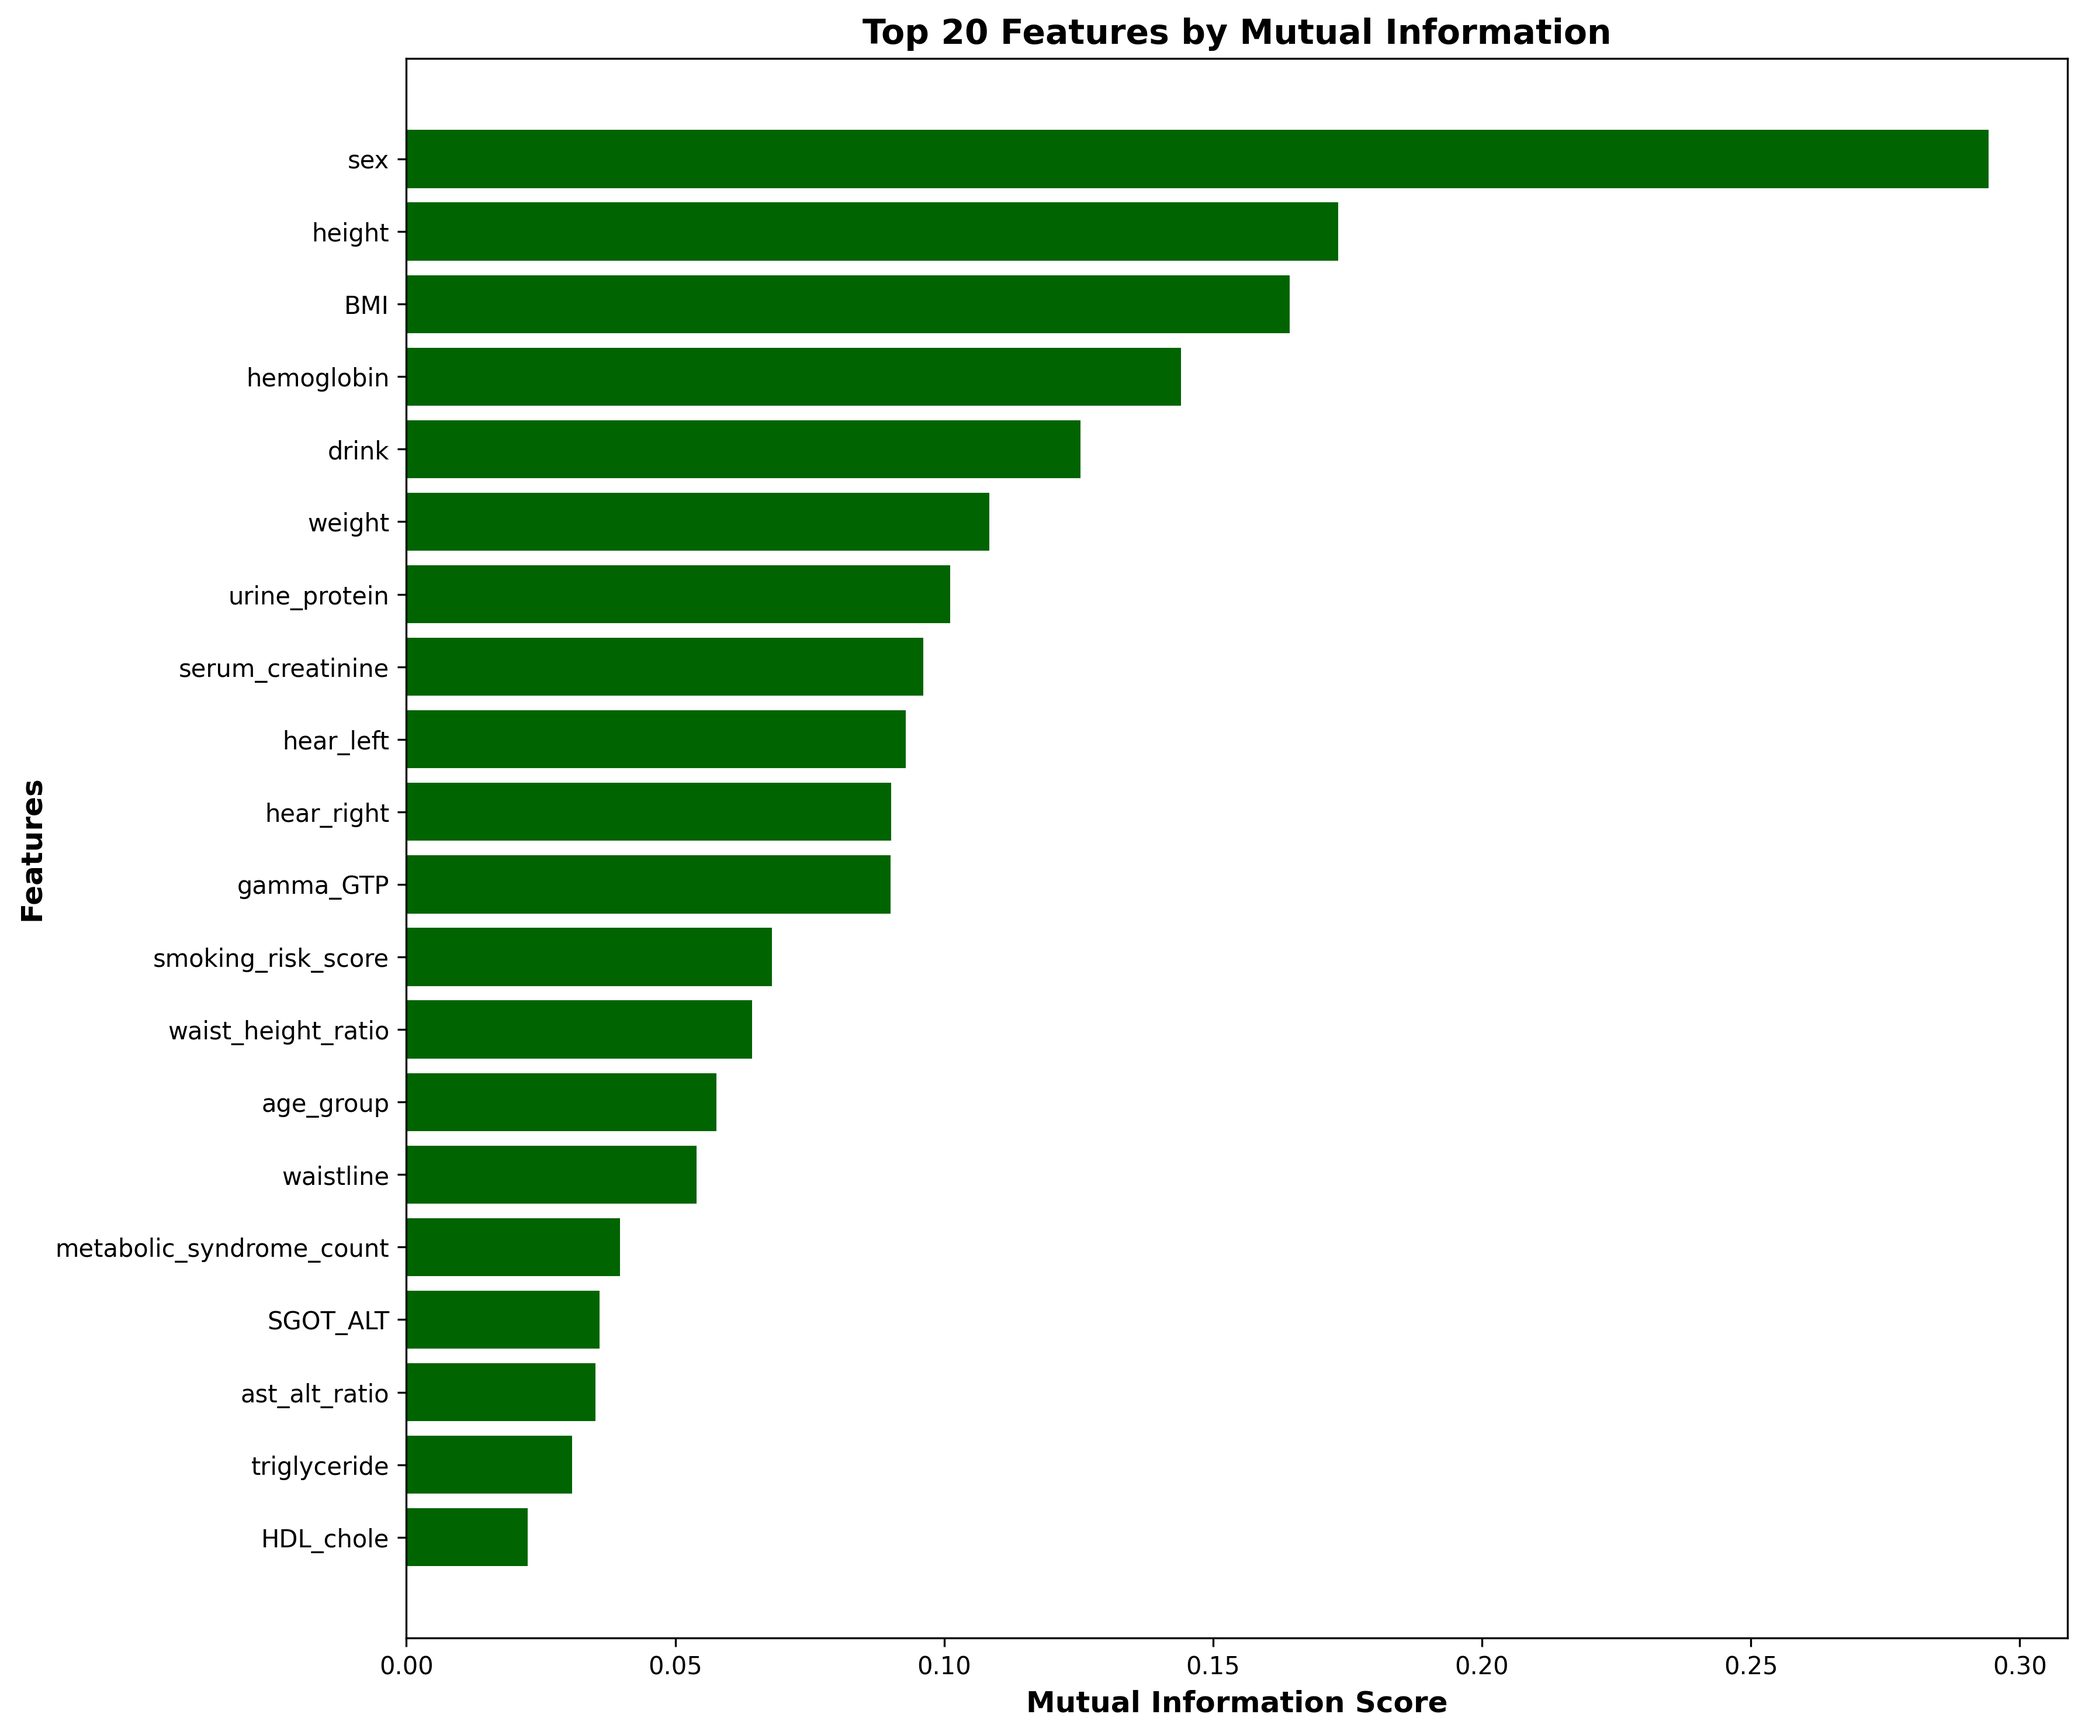
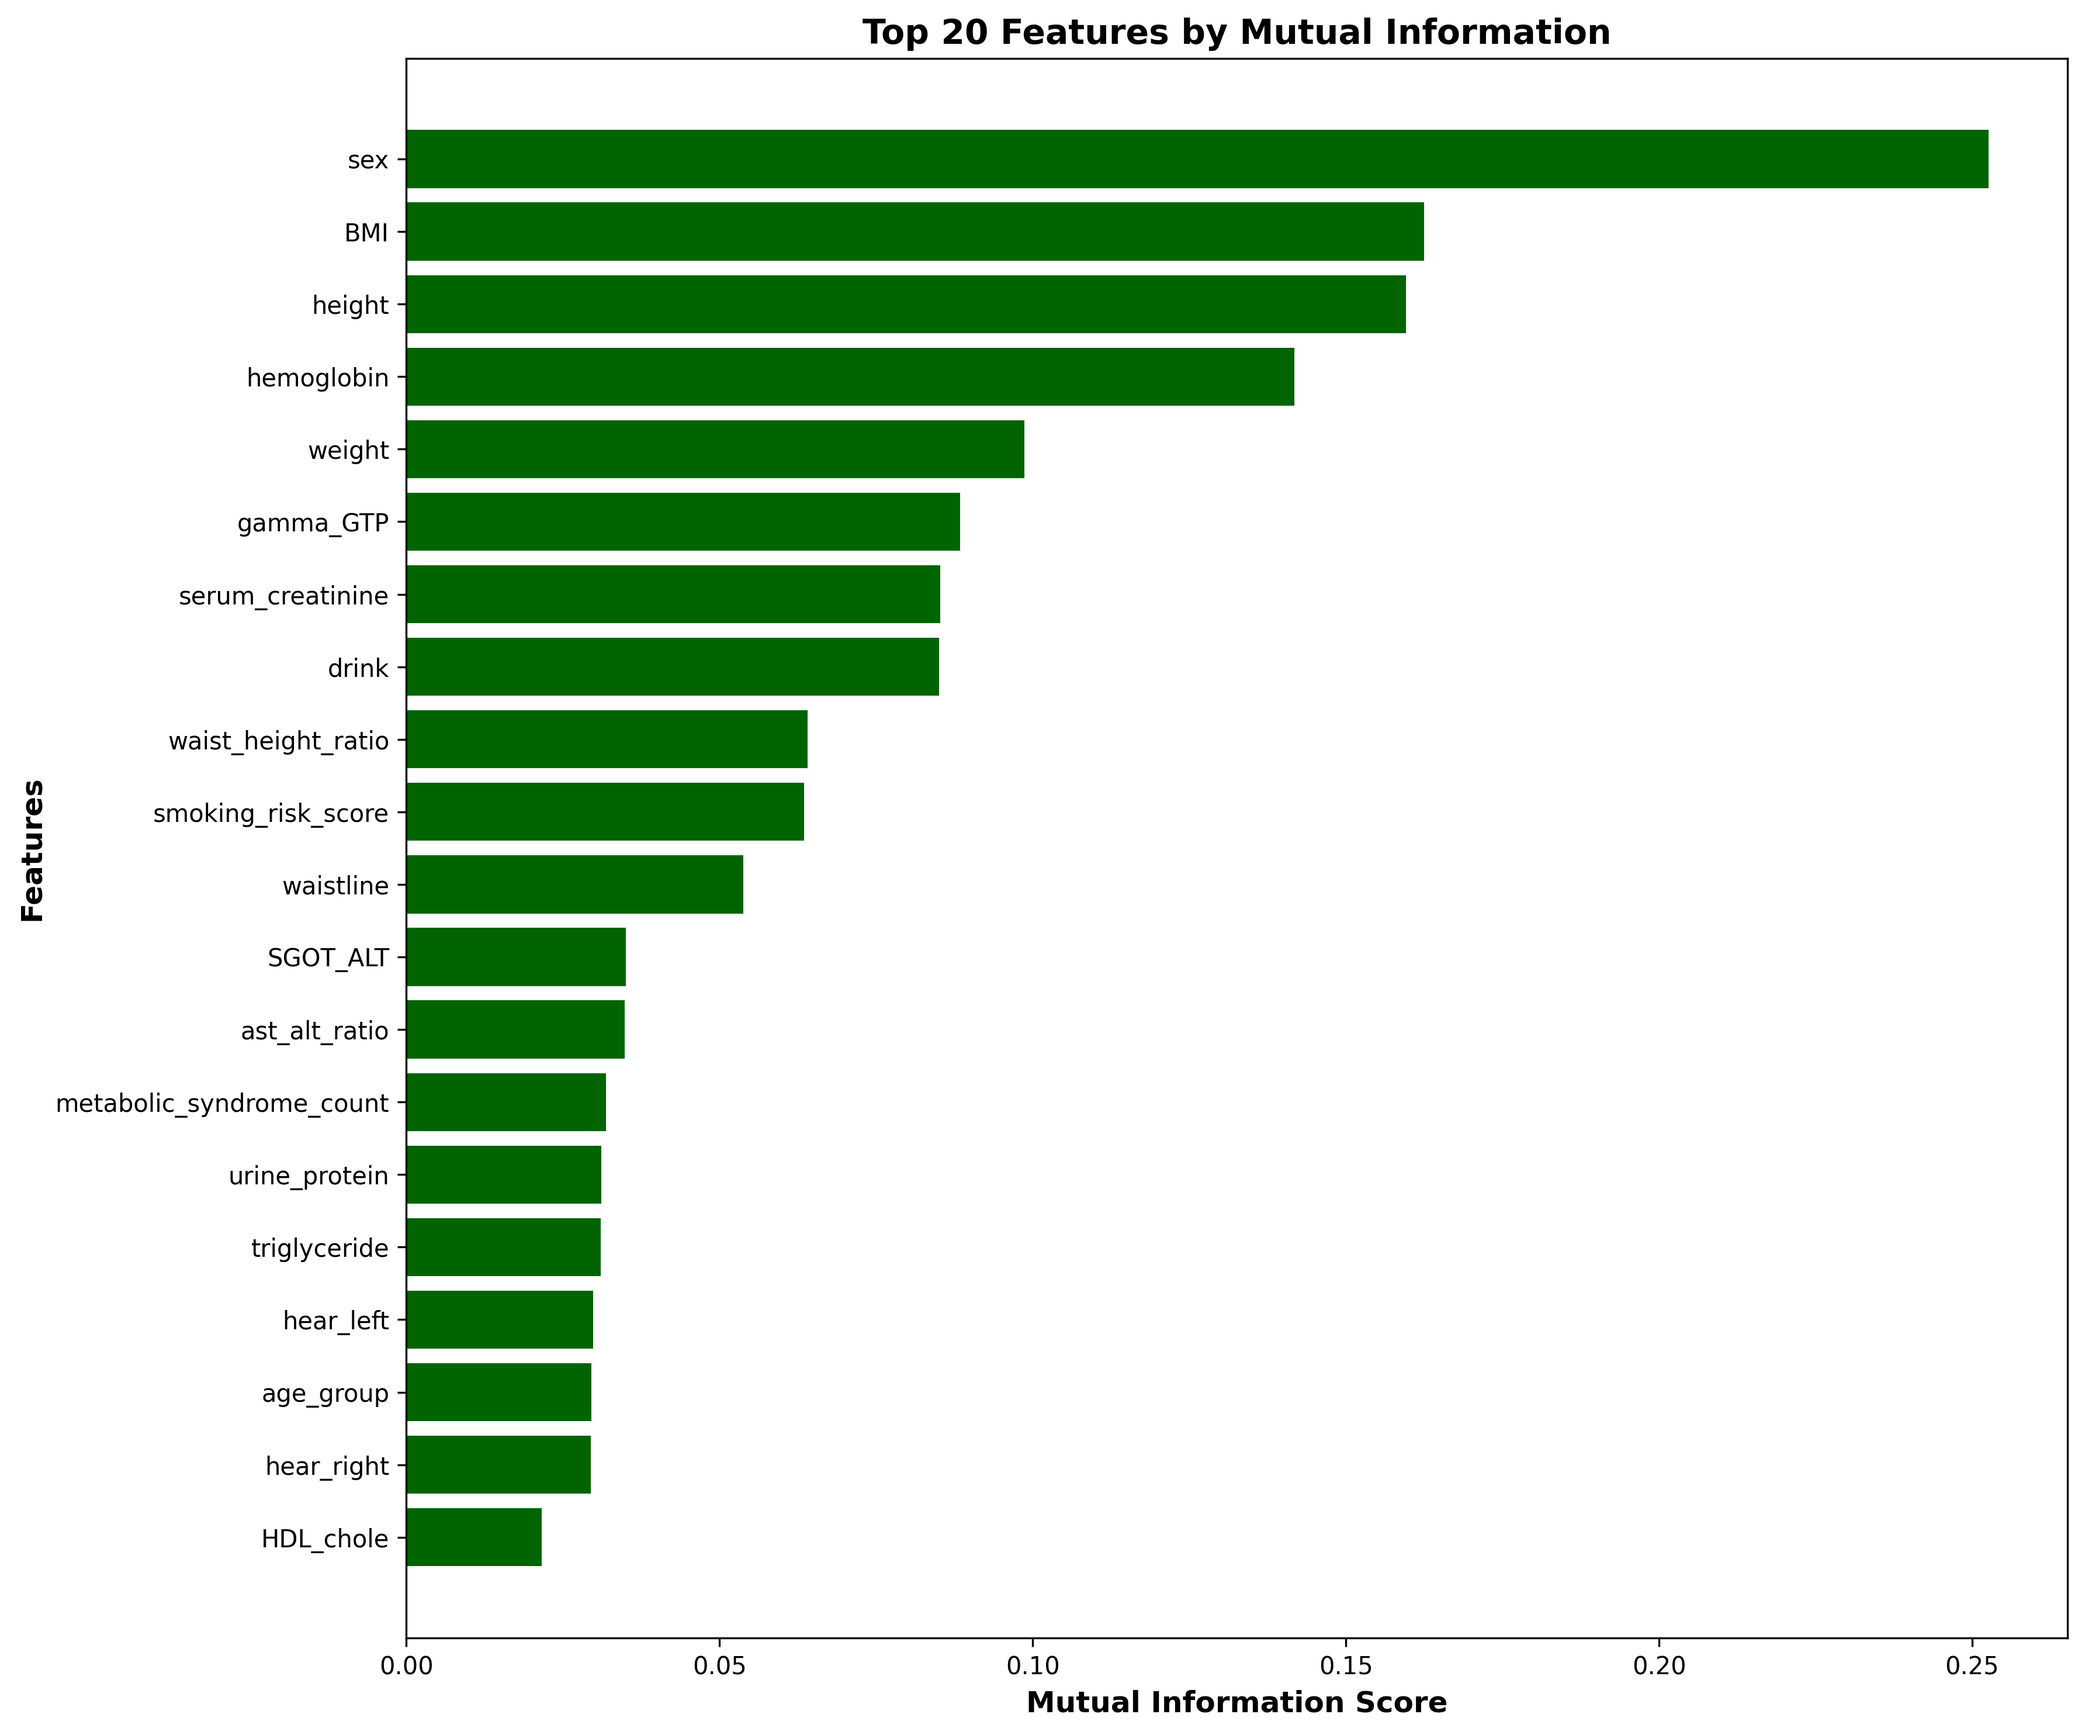
fixed features

diff --git a/features/extract_features.py b/features/extract_features.py
@@ -2,16 +2,47 @@
 
 import pandas as pd
 import numpy as np
-
+from sklearn.model_selection import train_test_split
 
 # ============================================
 # 1. LOAD DATA
 # ============================================
-df = pd.read_csv("competition/dataset_40_percent.csv")  # Adjust your filename
+from sklearn.model_selection import train_test_split
+import pandas as pd
 
-print(f"Original feature count: {len(df.columns)}")
-print(f"Dataset shape: {df.shape}\n")
+df = pd.read_csv("datasets/smoking_drinking_filtered.csv")
 
+print(f"Original dataset shape: {df.shape}")
+
+# -------------------------
+# First split: 60 / 40
+# -------------------------
+fe_df, holdout_60_df = train_test_split(
+    df,
+    test_size=0.60,  # 60% held untouched for later training
+    random_state=42,
+    shuffle=True,
+)
+
+print(f"Feature-engineering pool (40%): {fe_df.shape}")
+print(f"Held-out final data (60%):     {holdout_60_df.shape}")
+
+# -------------------------
+# Second split on the 40%: 80 / 20
+# -------------------------
+fe_train_df, fe_test_df = train_test_split(
+    fe_df,
+    test_size=0.20,  # 20% of 40% = 8% of original data
+    random_state=42,
+    shuffle=True,
+)
+
+print(f"FE Train set (80% of 40%): {fe_train_df.shape}")
+print(f"FE Test set (20% of 40%):  {fe_test_df.shape}")
+print("\nUsing ONLY fe_train_df for feature extraction.\n")
+
+# This df is the one you now engineer features on
+df = fe_train_df.copy()
 # ============================================
 # 2. FEATURE EXTRACTION (12 NEW FEATURES)
 # ============================================
